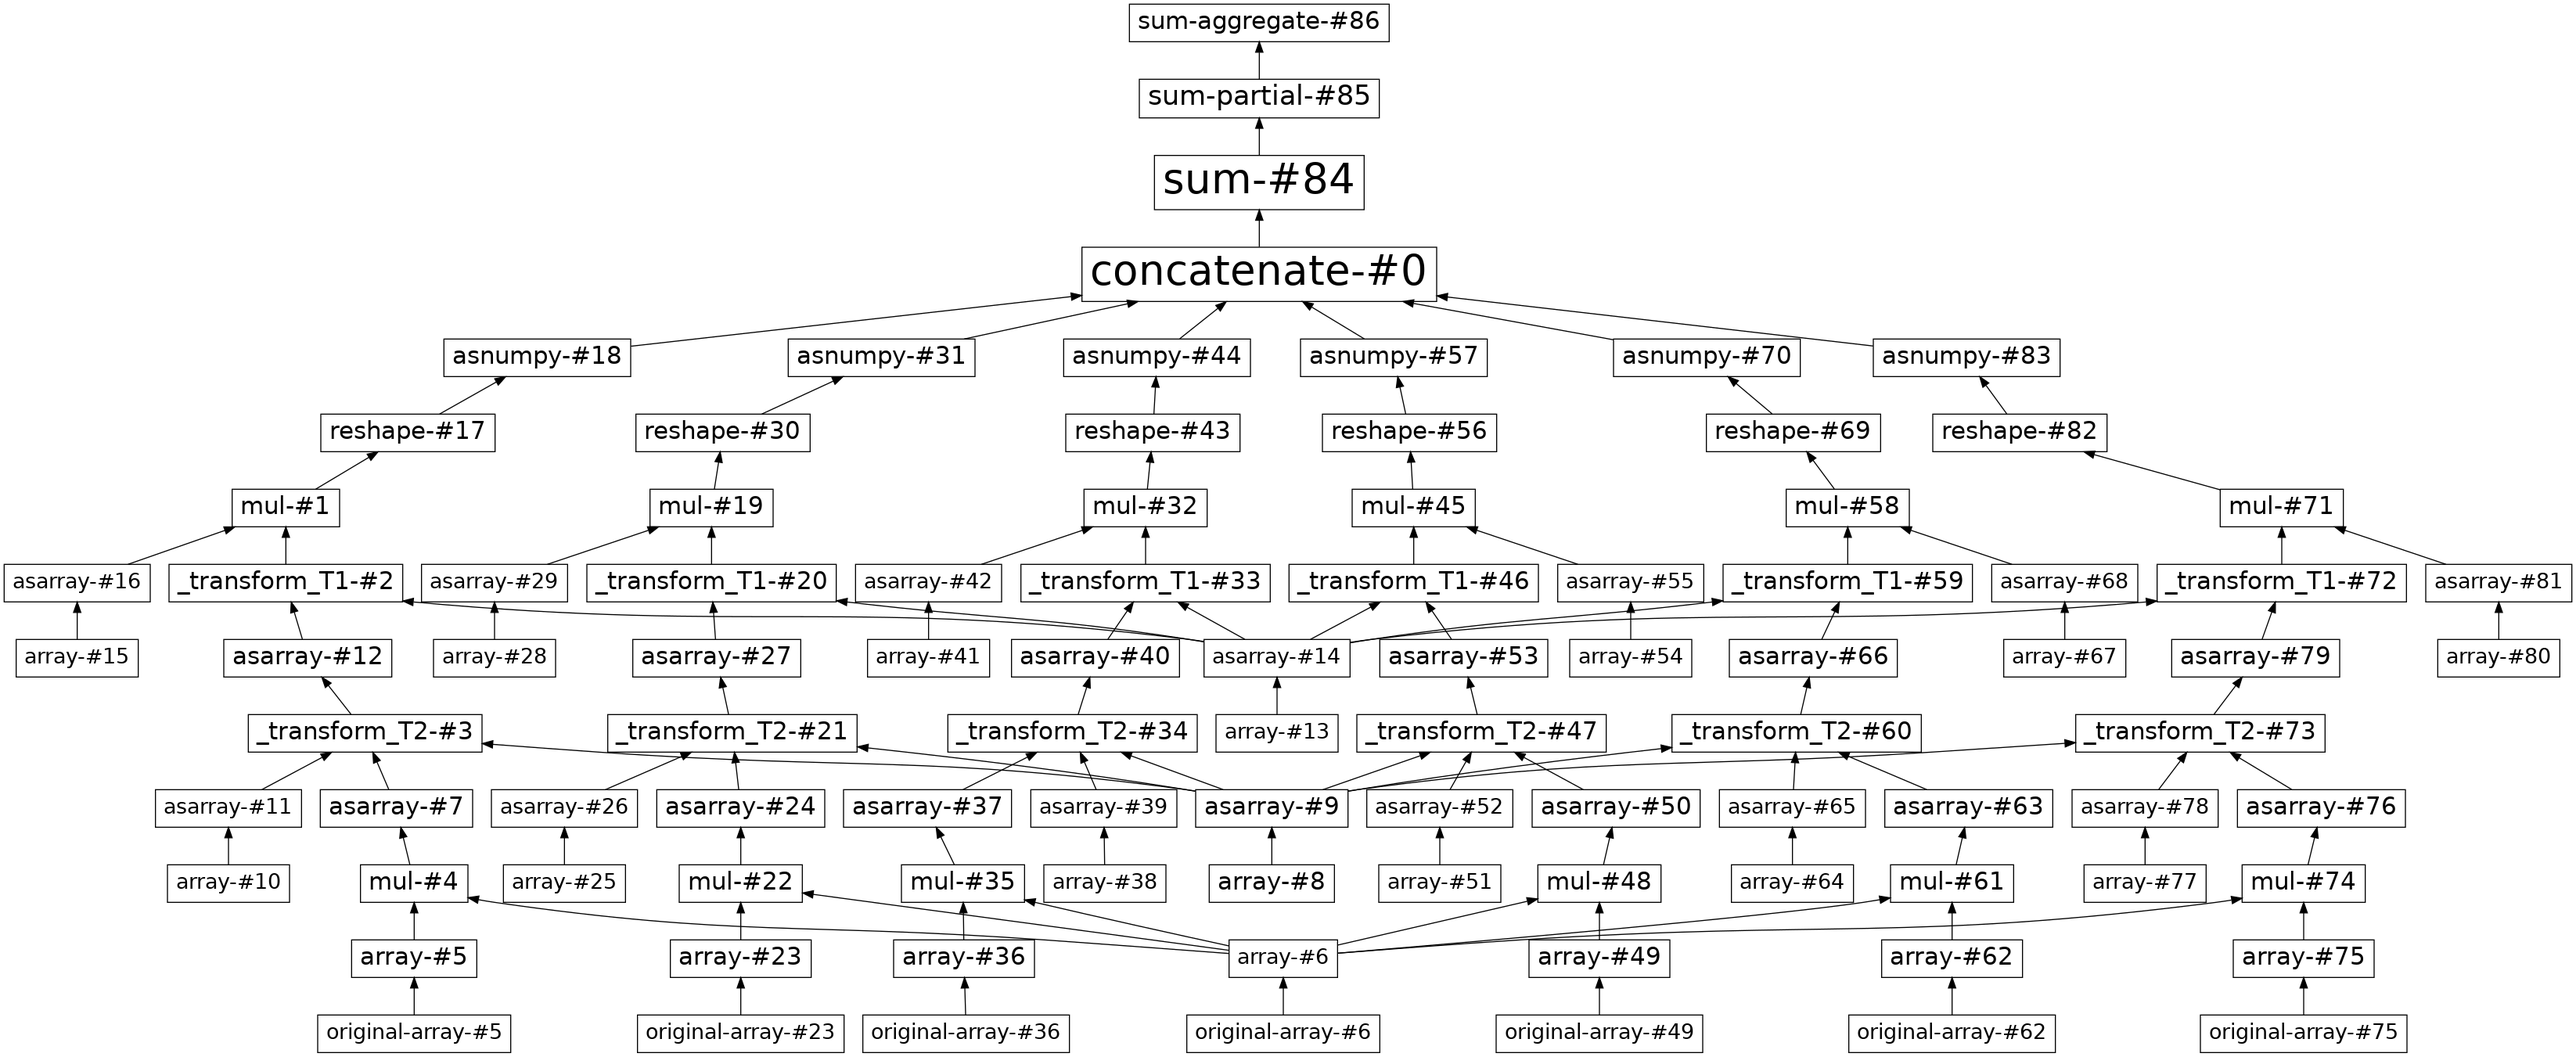
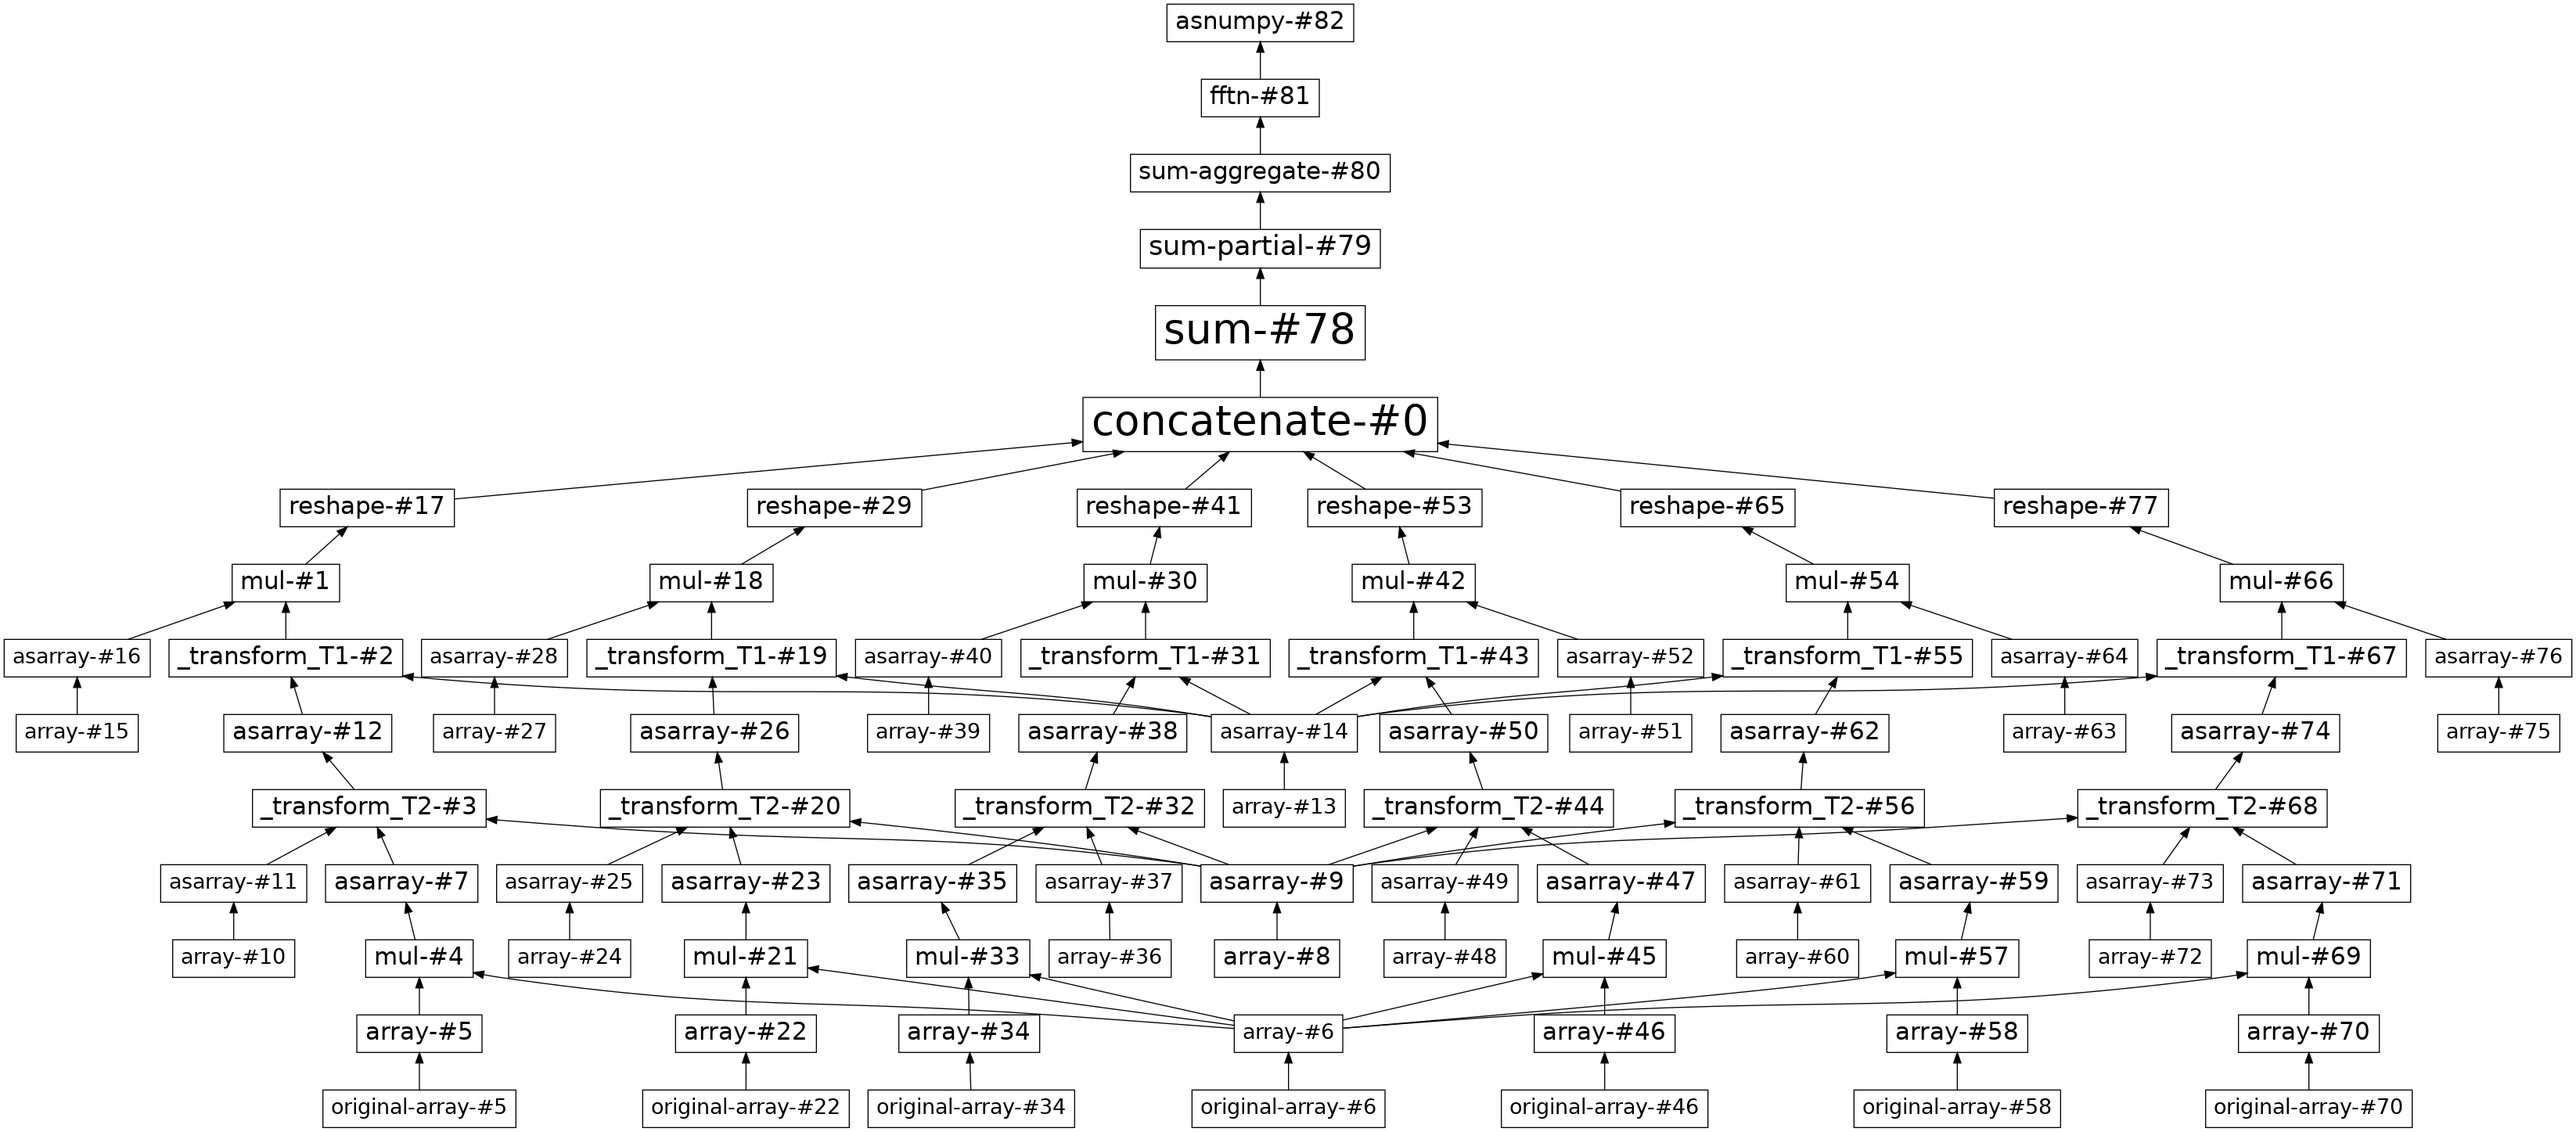
Cupy cartesian fft test
* Test how the cartesing fft behaves on the GPU via cupy regarding the performance
* It is quite fast -> might replace the PyTorch implementation since cupy can be easy combined with dask!

diff --git a/code/main.py b/code/main.py
@@ -18,6 +18,7 @@ import dask
 import pint
 import file
 import sys
+import cupy
 
 import seaborn as sns
 import pandas as pd
@@ -242,6 +243,13 @@ def main_entry():
     simulation.add_mask(metabolic_mask.data)
 
     computational_graph = simulation.assemble_graph()
+    computational_graph = computational_graph.map_blocks(cupy.fft.fftn, dtype=cupy.complex64, axes=(1,2,3))
+    computational_graph = computational_graph.map_blocks(cupy.asnumpy)
+
+    #computational_graph = cupy.fft.fftn(computational_graph, axes=(1, 2, 3))
+    #input("****************************")
+
+
     computational_graph.dask.visualize(filename='visualisation/dask_graph_high_level.png')
 
     # Start client & and start dasboard, since computation is below
@@ -282,12 +290,14 @@ def main_entry():
     with ms.sample("collection 1"):
         for i, s in enumerate(batches_slice):
             print(f"compute batch {i}")
-            dask.compute(all_blocks[s])
+            blocks = dask.compute(all_blocks[s])[0]
+            blocks_squeezed = [np.squeeze(block, axis=0) for block in blocks]
+            result = np.stack(blocks_squeezed, axis=0)
+            print(result.shape)
 
     Console.stop_timer()
     ms.plot(align=True)
     plt.show()
-
 
 
 if __name__ == '__main__':

diff --git a/code/spectral_spatial_simulation.py b/code/spectral_spatial_simulation.py
@@ -454,7 +454,7 @@ class Model:
             #print(f"volume_metabolite (expand_dims): {volume_metabolite}")
 
             # TODO
-            volume_metabolite = volume_metabolite.map_blocks(cp.asnumpy)
+            #volume_metabolite = volume_metabolite.map_blocks(cp.asnumpy) # TODO TODO TODO: uncomment again if required!
             metabolites_volume_list.append(volume_metabolite)
 
         # (6) Put all arrays together -> 1,100_000,150,150,150 + ... + 1,100_000,150,150,150 = 11,100_000,150,150,150
@@ -464,6 +464,9 @@ class Model:
 
         # (7) Sum all metabolites
         volume_sum_all_metabolites = da.sum(volume_all_metabolites, axis=0)
+
+        #volume_sum_all_metabolites = volume_sum_all_metabolites.map_blocks(cp.asnumpy) # TODO TODO TODO: remove again if required!
+
         volume_sum_all_metabolites = CustomArray(volume_sum_all_metabolites)
 
         #print(f"volume_all_metabolites shape (sum): {volume_sum_all_metabolites}")
